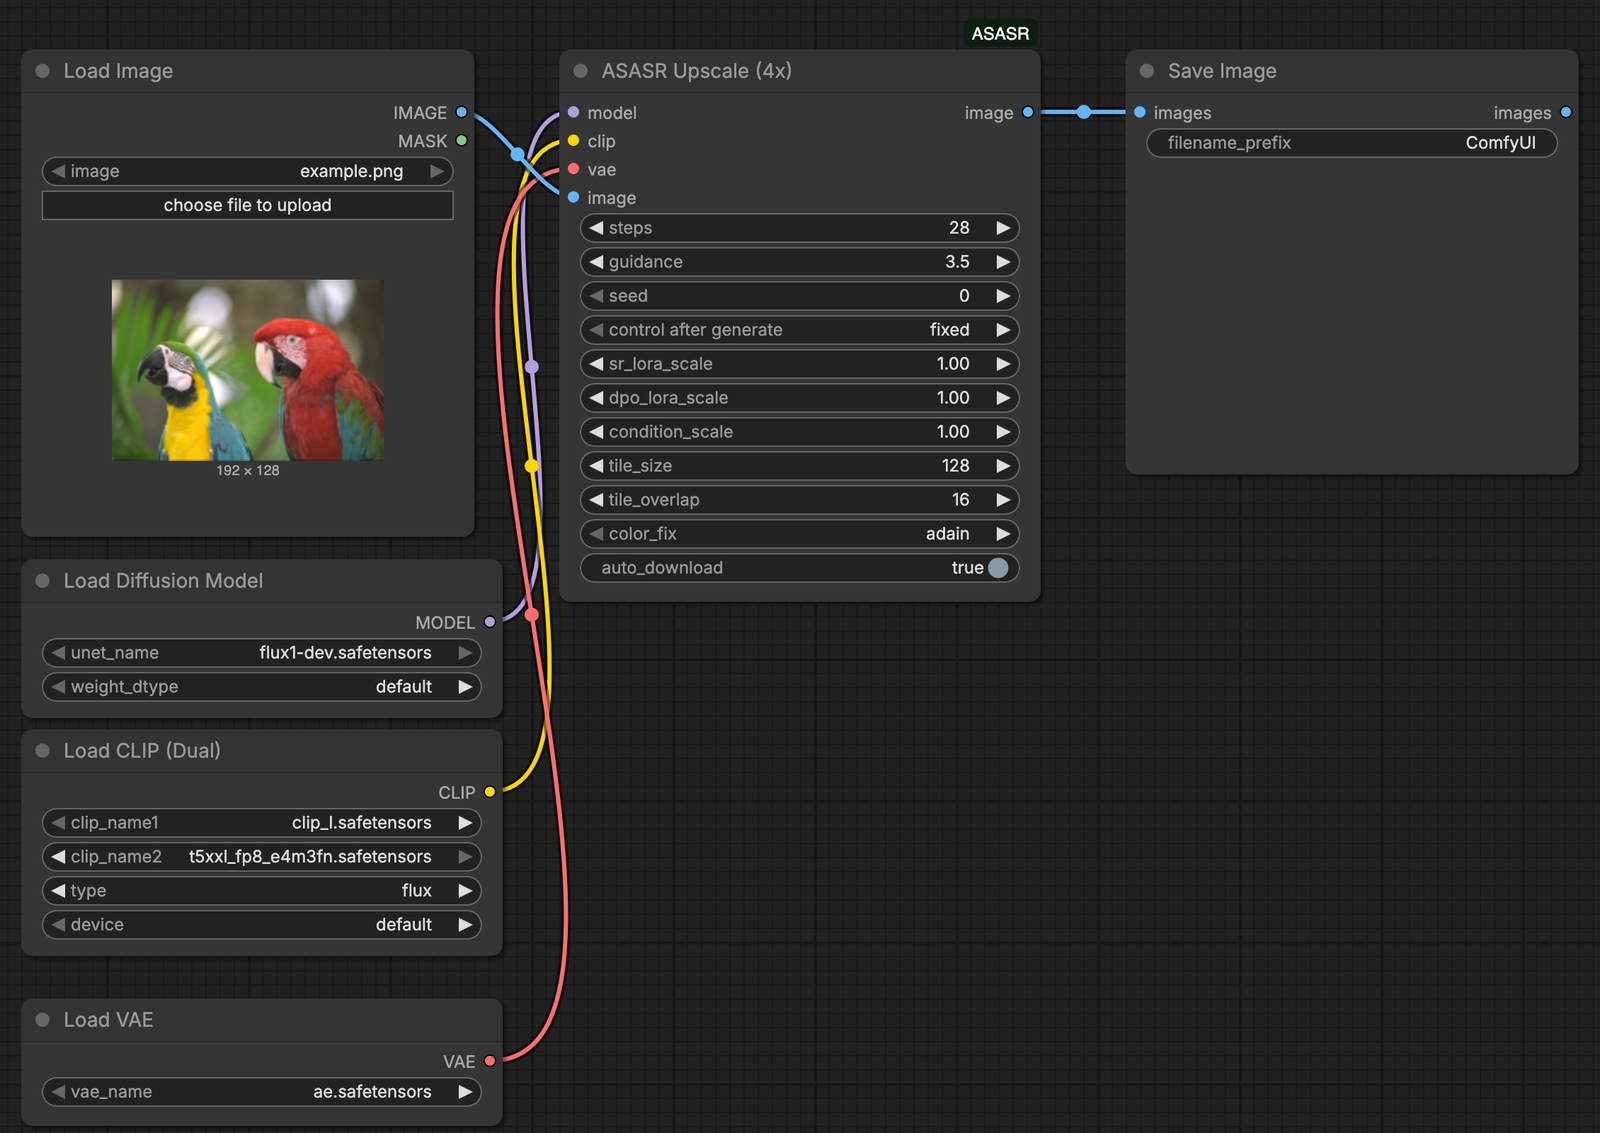
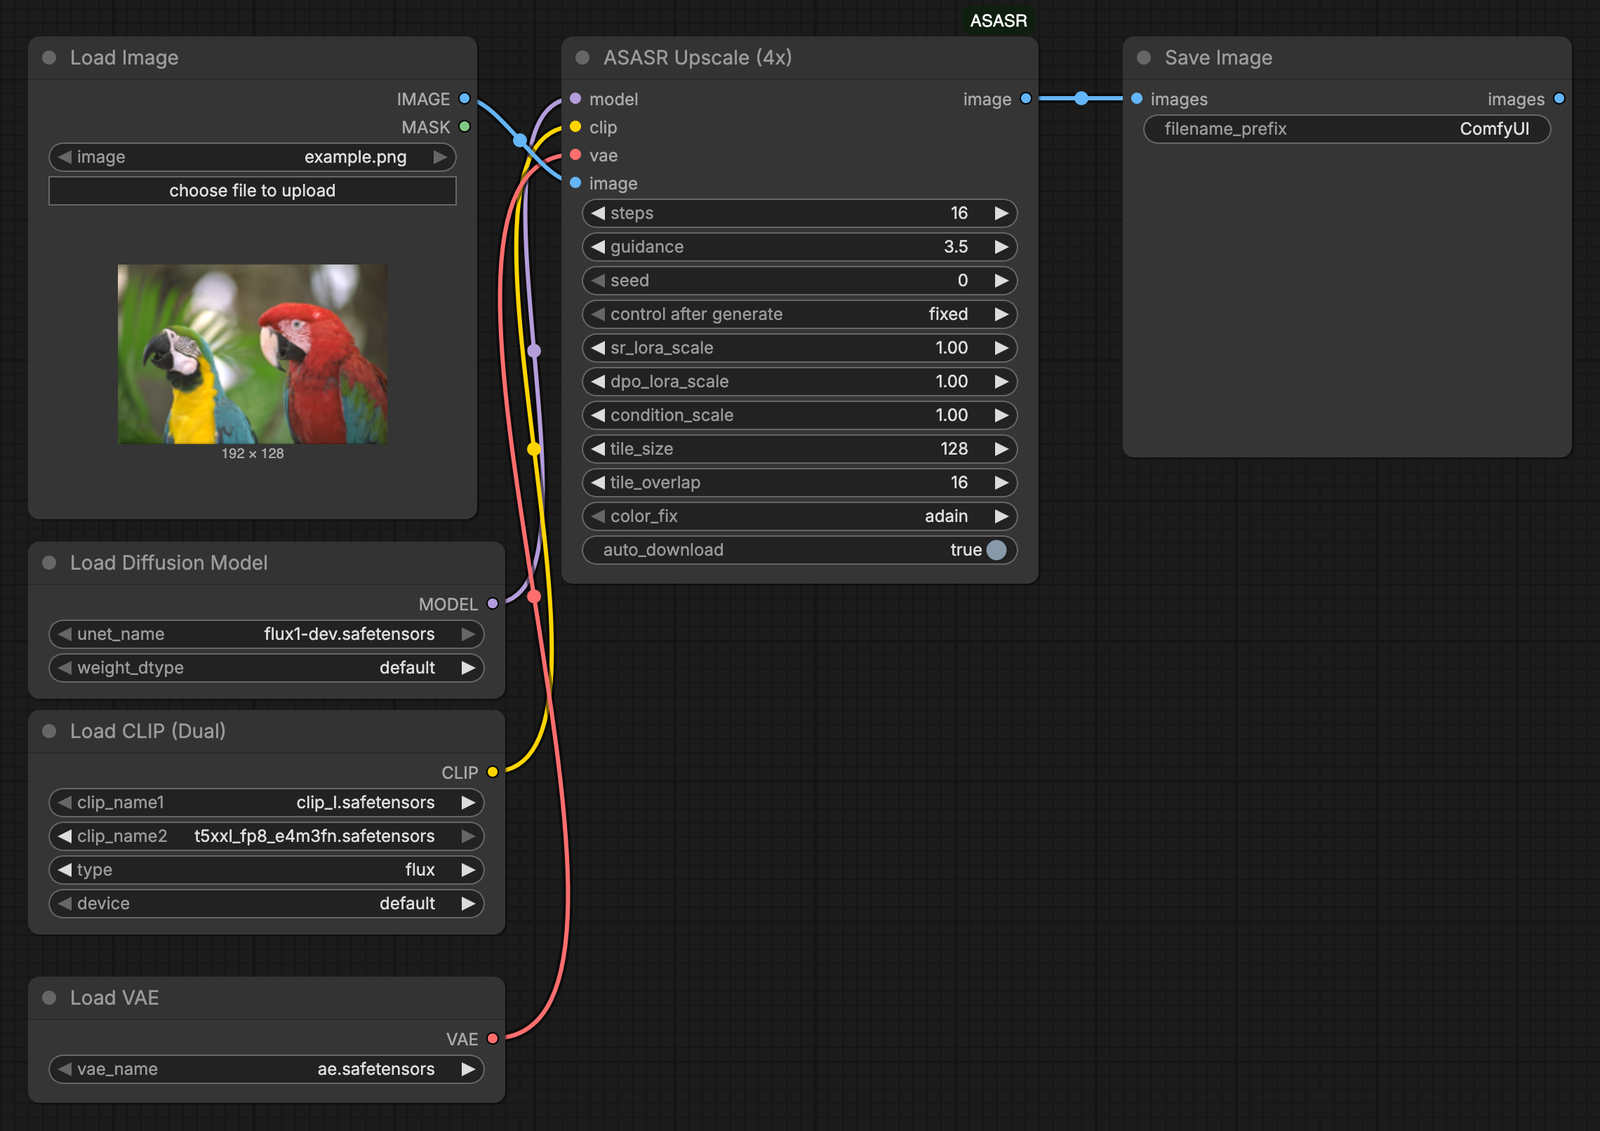
Release 1.1.1: workflow screenshots and template thumbnails
- Refresh the example workflow screenshot (16 steps) and add one for the
  Turbo LoRA workflow to the README.
- Add same-name .jpg thumbnails to example_workflows/ so ComfyUI's
  template browser shows previews.
- Move the Note in the Turbo workflow clear of the node links.

Changed region(s): [[0.0, 0.0309, 0.6562, 1.0], [0.5938, 0.0, 1.0, 0.4332], [0.3438, 0.8665, 0.375, 0.8974]]

diff --git a/README.md b/README.md
@@ -352,10 +352,13 @@ adds a `LoraLoaderModelOnly` with FLUX.1-Turbo-Alpha between the UNETLoader
 and the ASASR node and runs 6 steps (see
 [Fast mode](#fast-mode-flux1-turbo-alpha)).
 
+![Turbo example workflow: the Load Diffusion Model output passes through Load LoRA with FLUX.1-Turbo-Alpha before ASASR Upscale (4x), which runs 6 steps](docs/images/example_workflow_turbo.png)
+
 Load them in ComfyUI via **Workflow → Open** (or drag the file onto the
-canvas). Once the node pack is installed, both also appear in ComfyUI's
-template browser under ComfyUI-ASASR. Swap the `UNETLoader` node for
-ComfyUI-GGUF's `UnetLoaderGGUF` to use a GGUF-quantized checkpoint.
+canvas). Once the node pack is installed, both also appear, with preview
+thumbnails, in ComfyUI's template browser under ComfyUI-ASASR. Swap the
+`UNETLoader` node for ComfyUI-GGUF's `UnetLoaderGGUF` to use a
+GGUF-quantized checkpoint.
 
 ## License
 
